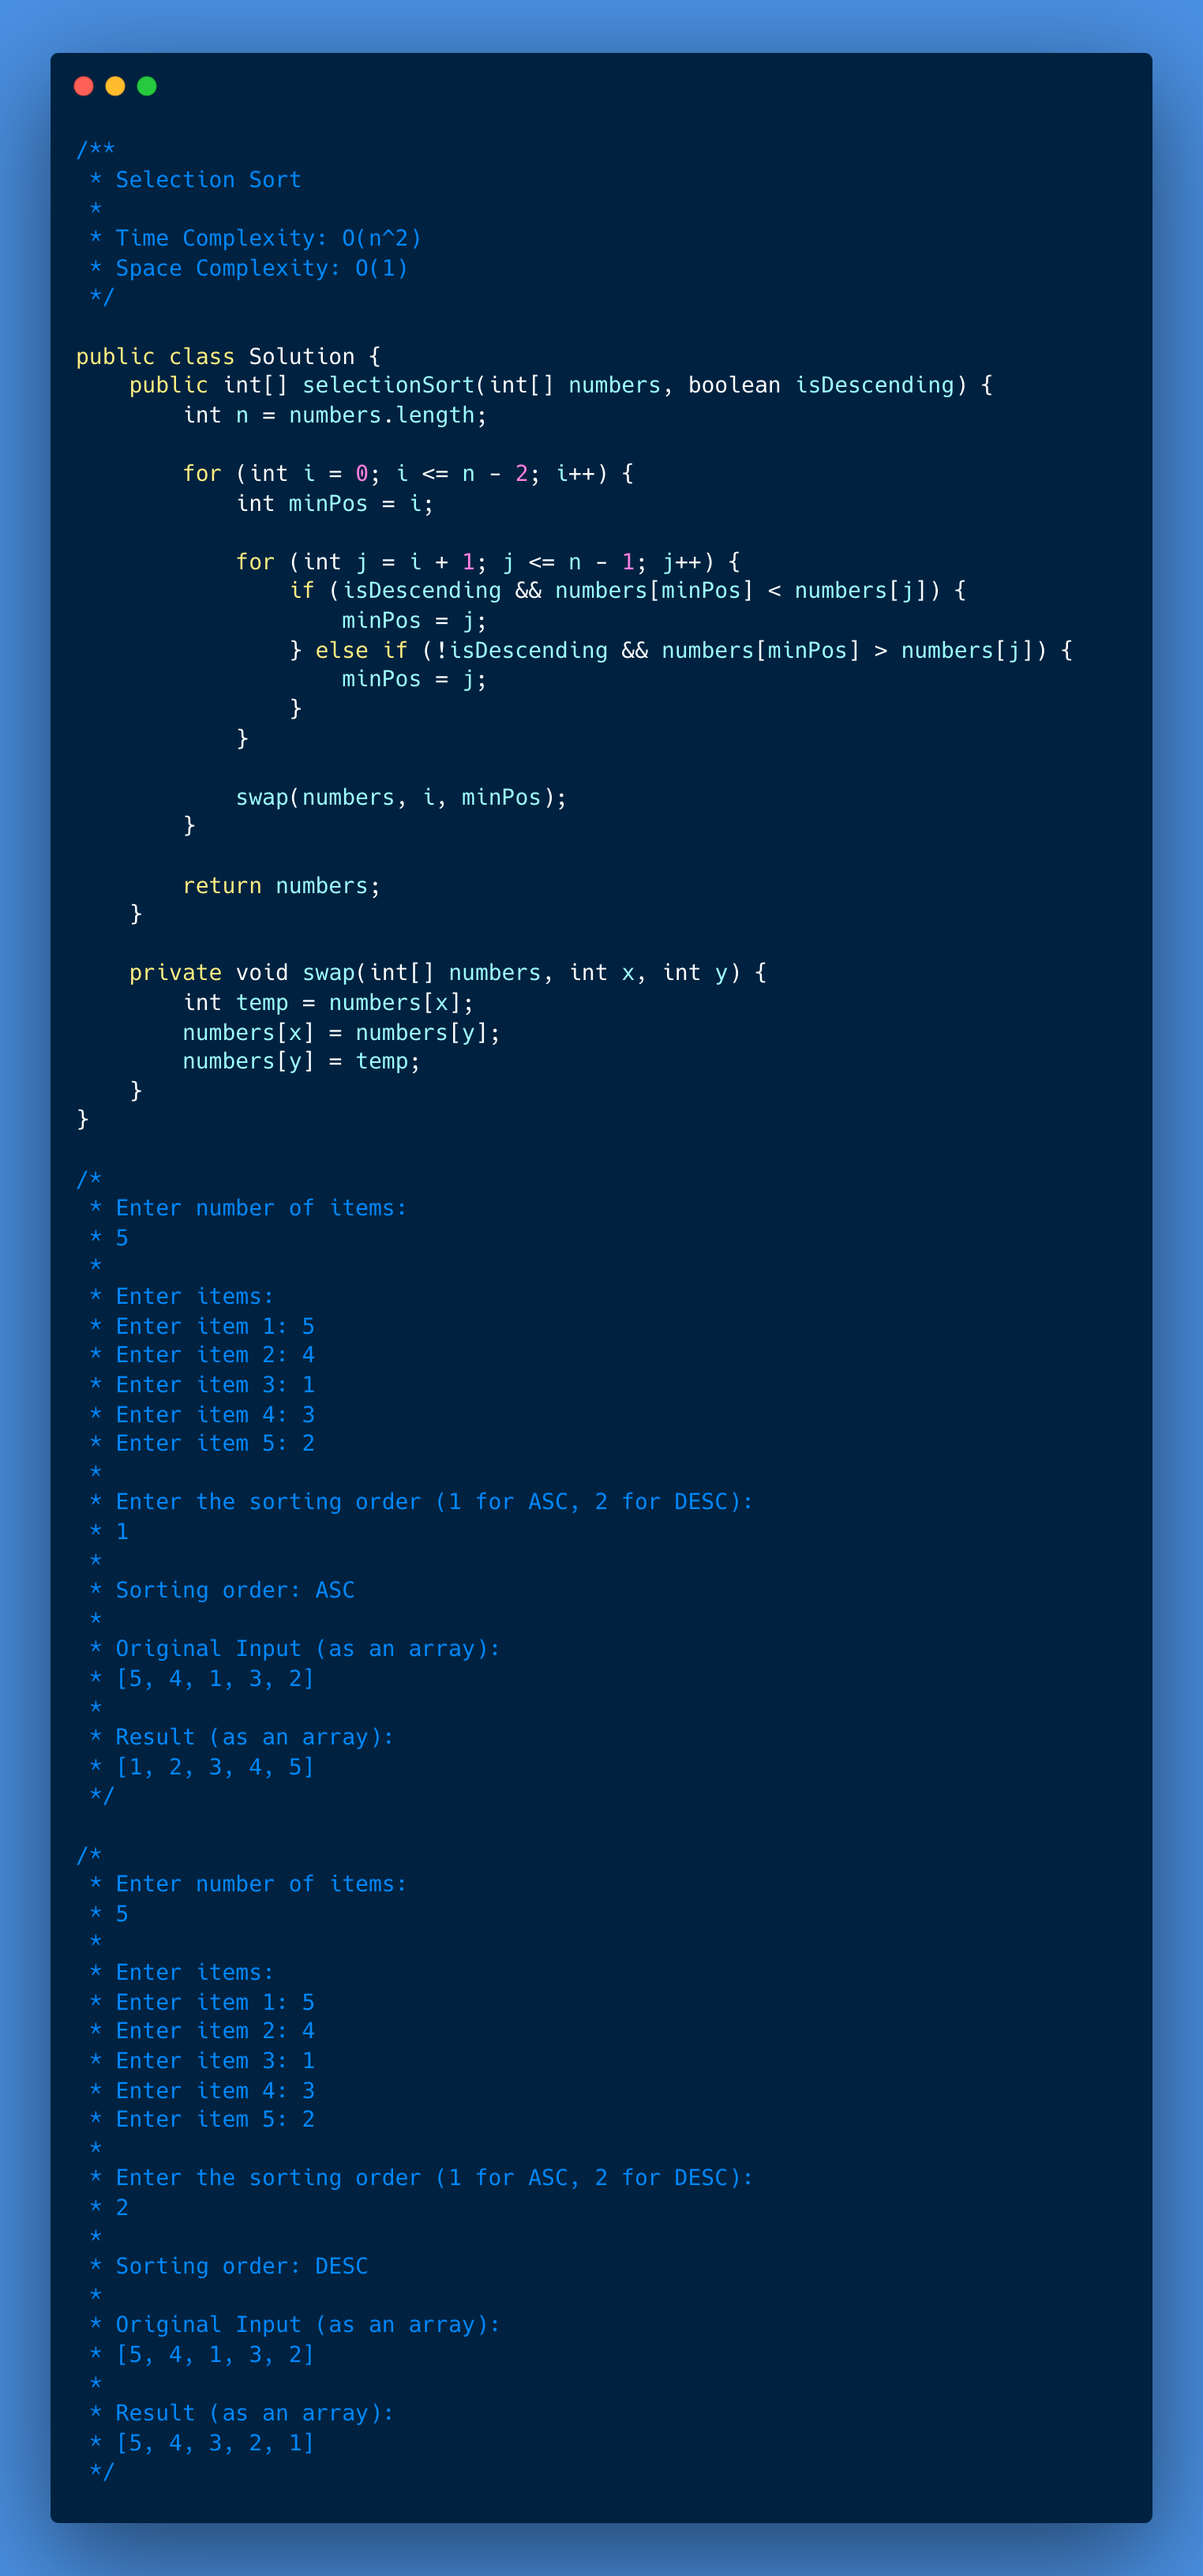
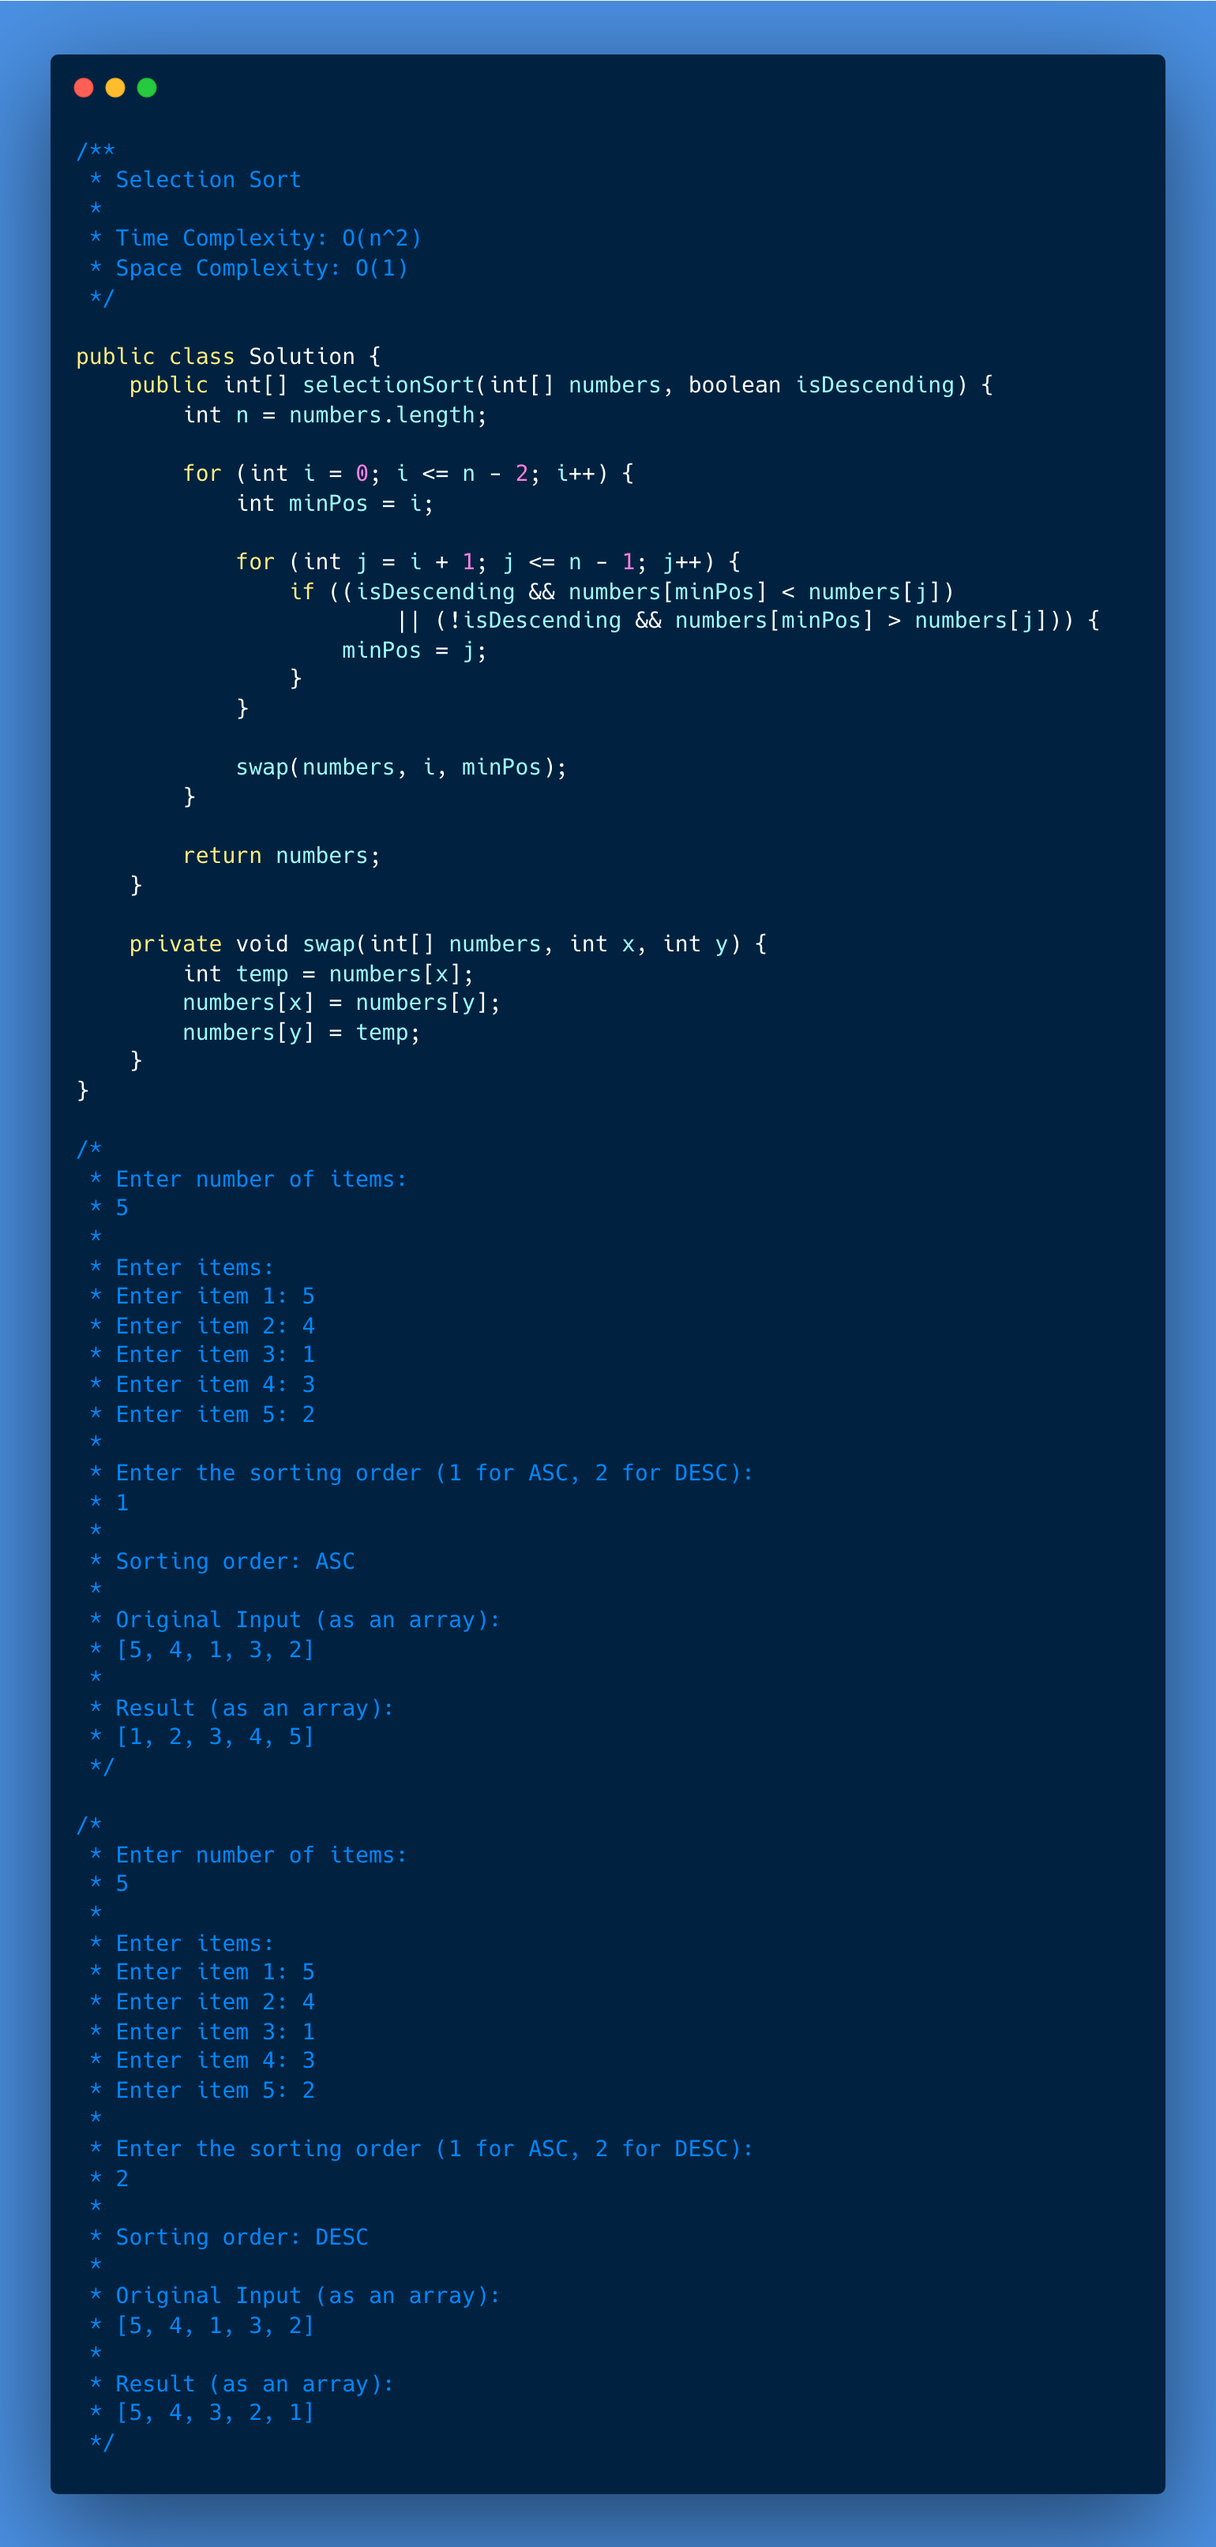
Update Bubble and selection sort

diff --git a/051-bubble-sort/001-solution/Solution.java b/051-bubble-sort/001-solution/Solution.java
@@ -14,9 +14,8 @@ public class Solution {
             swapped = false;
 
             for (int j = 0; j <= n - 2 - i; j++) {
-                if (isDescending && numbers[j] < numbers[j + 1]) {
-                    swapped = swap(numbers, j, j + 1);
-                } else if (!isDescending && numbers[j] > numbers[j + 1]) {
+                if ((isDescending && numbers[j] < numbers[j + 1])
+                        || (!isDescending && numbers[j] > numbers[j + 1])) {
                     swapped = swap(numbers, j, j + 1);
                 }
             }

diff --git a/052-selection-sort/001-solution/Solution.java b/052-selection-sort/001-solution/Solution.java
@@ -13,9 +13,8 @@ public class Solution {
             int minPos = i;
 
             for (int j = i + 1; j <= n - 1; j++) {
-                if (isDescending && numbers[minPos] < numbers[j]) {
-                    minPos = j;
-                } else if (!isDescending && numbers[minPos] > numbers[j]) {
+                if ((isDescending && numbers[minPos] < numbers[j])
+                        || (!isDescending && numbers[minPos] > numbers[j])) {
                     minPos = j;
                 }
             }
